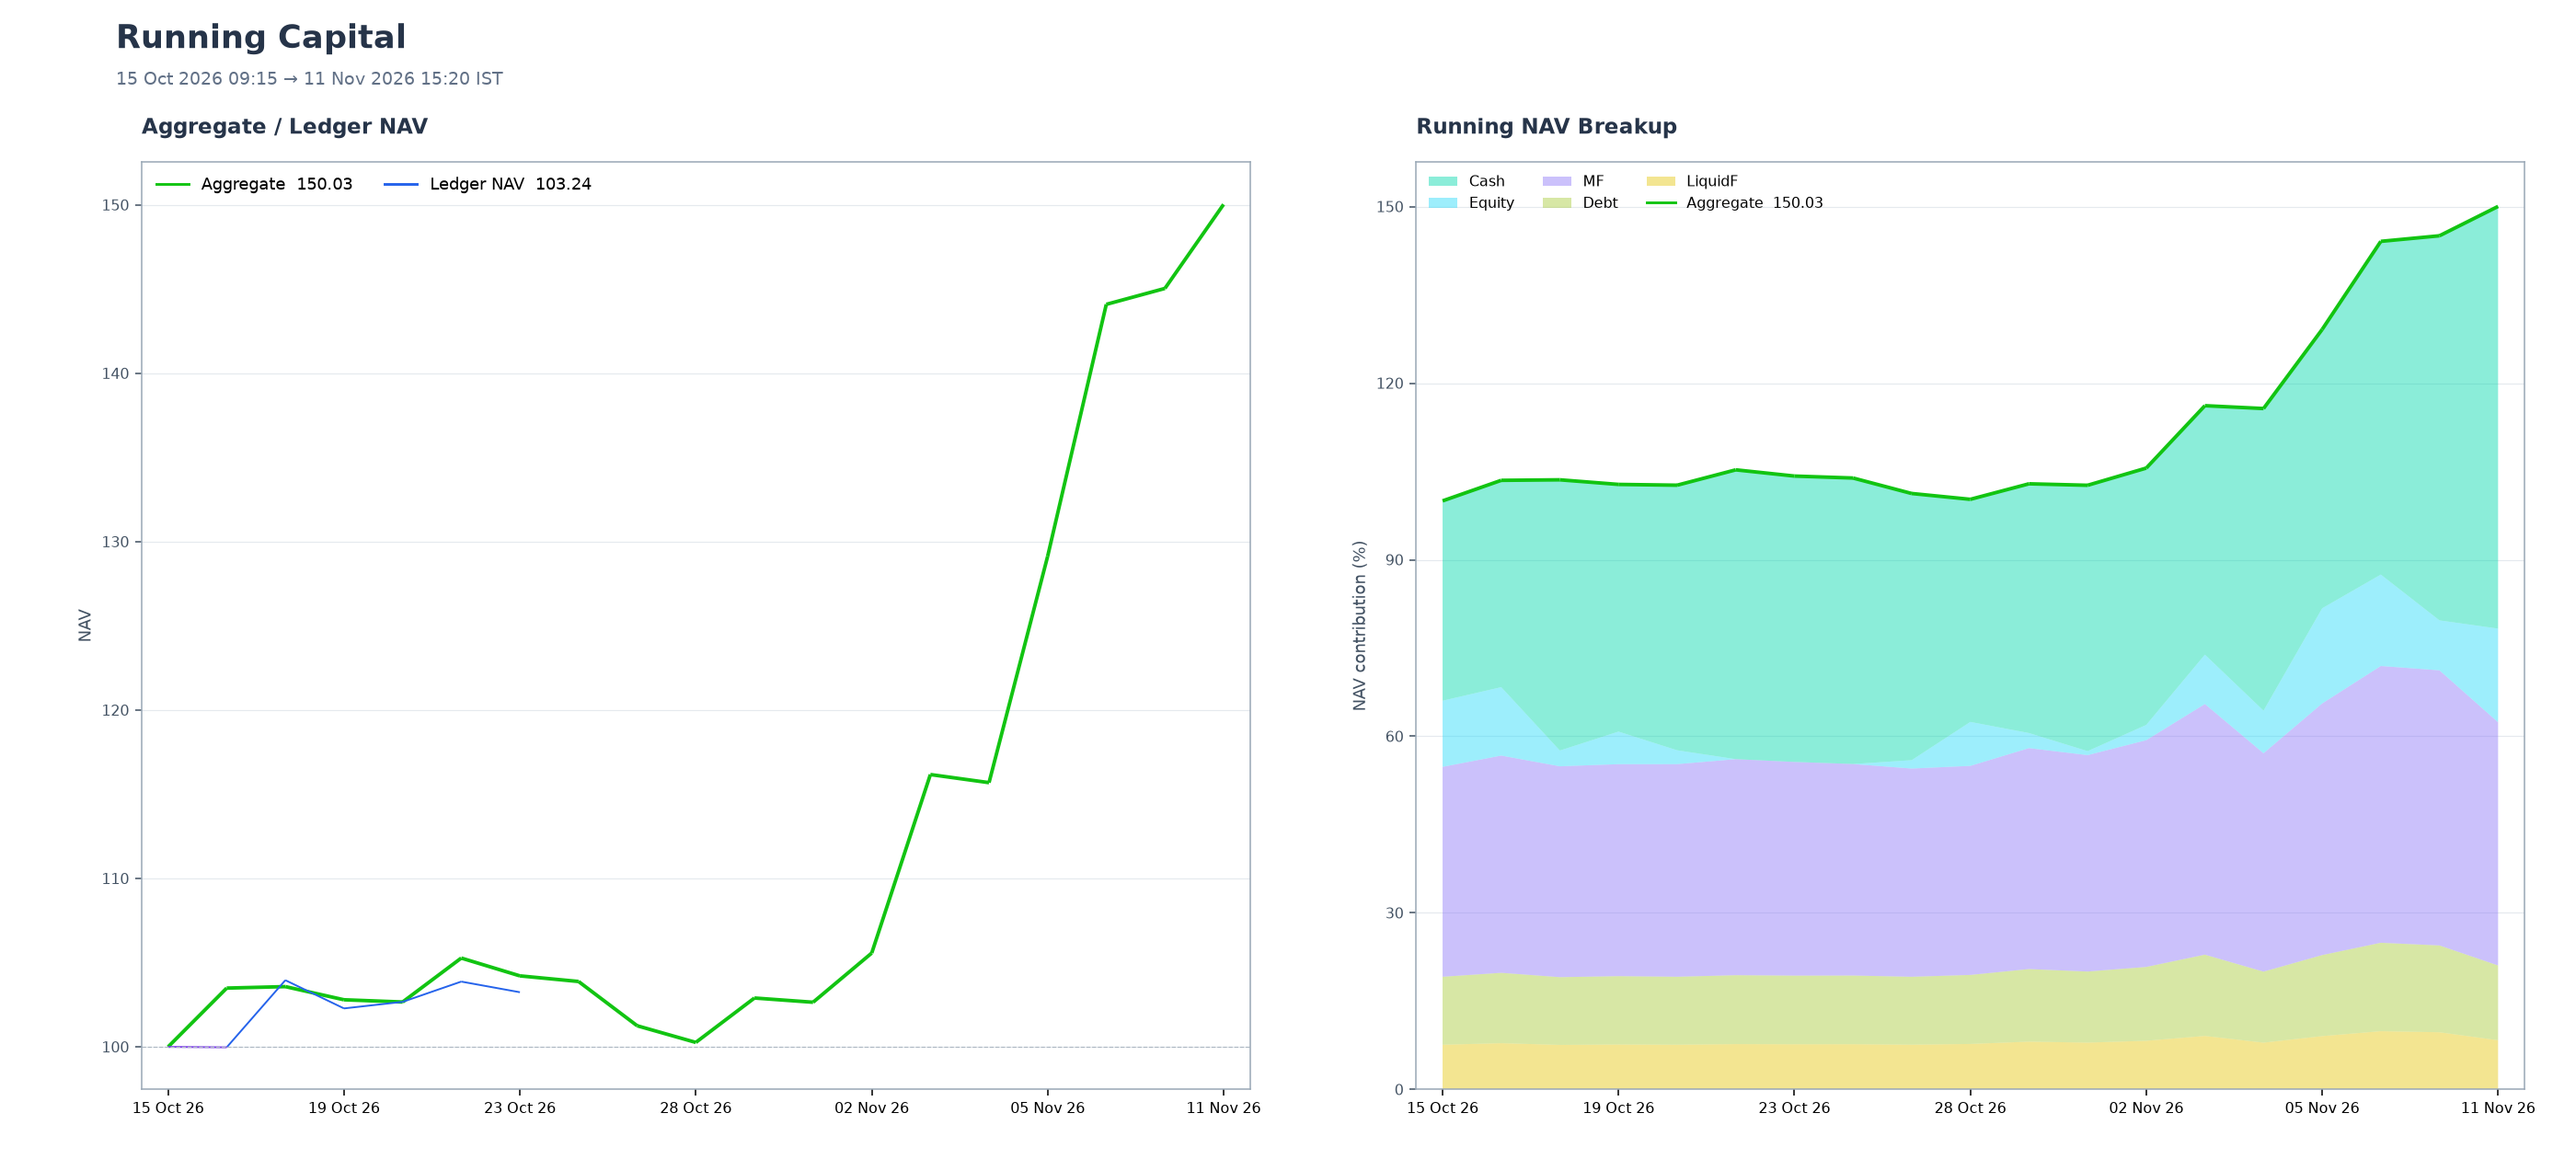
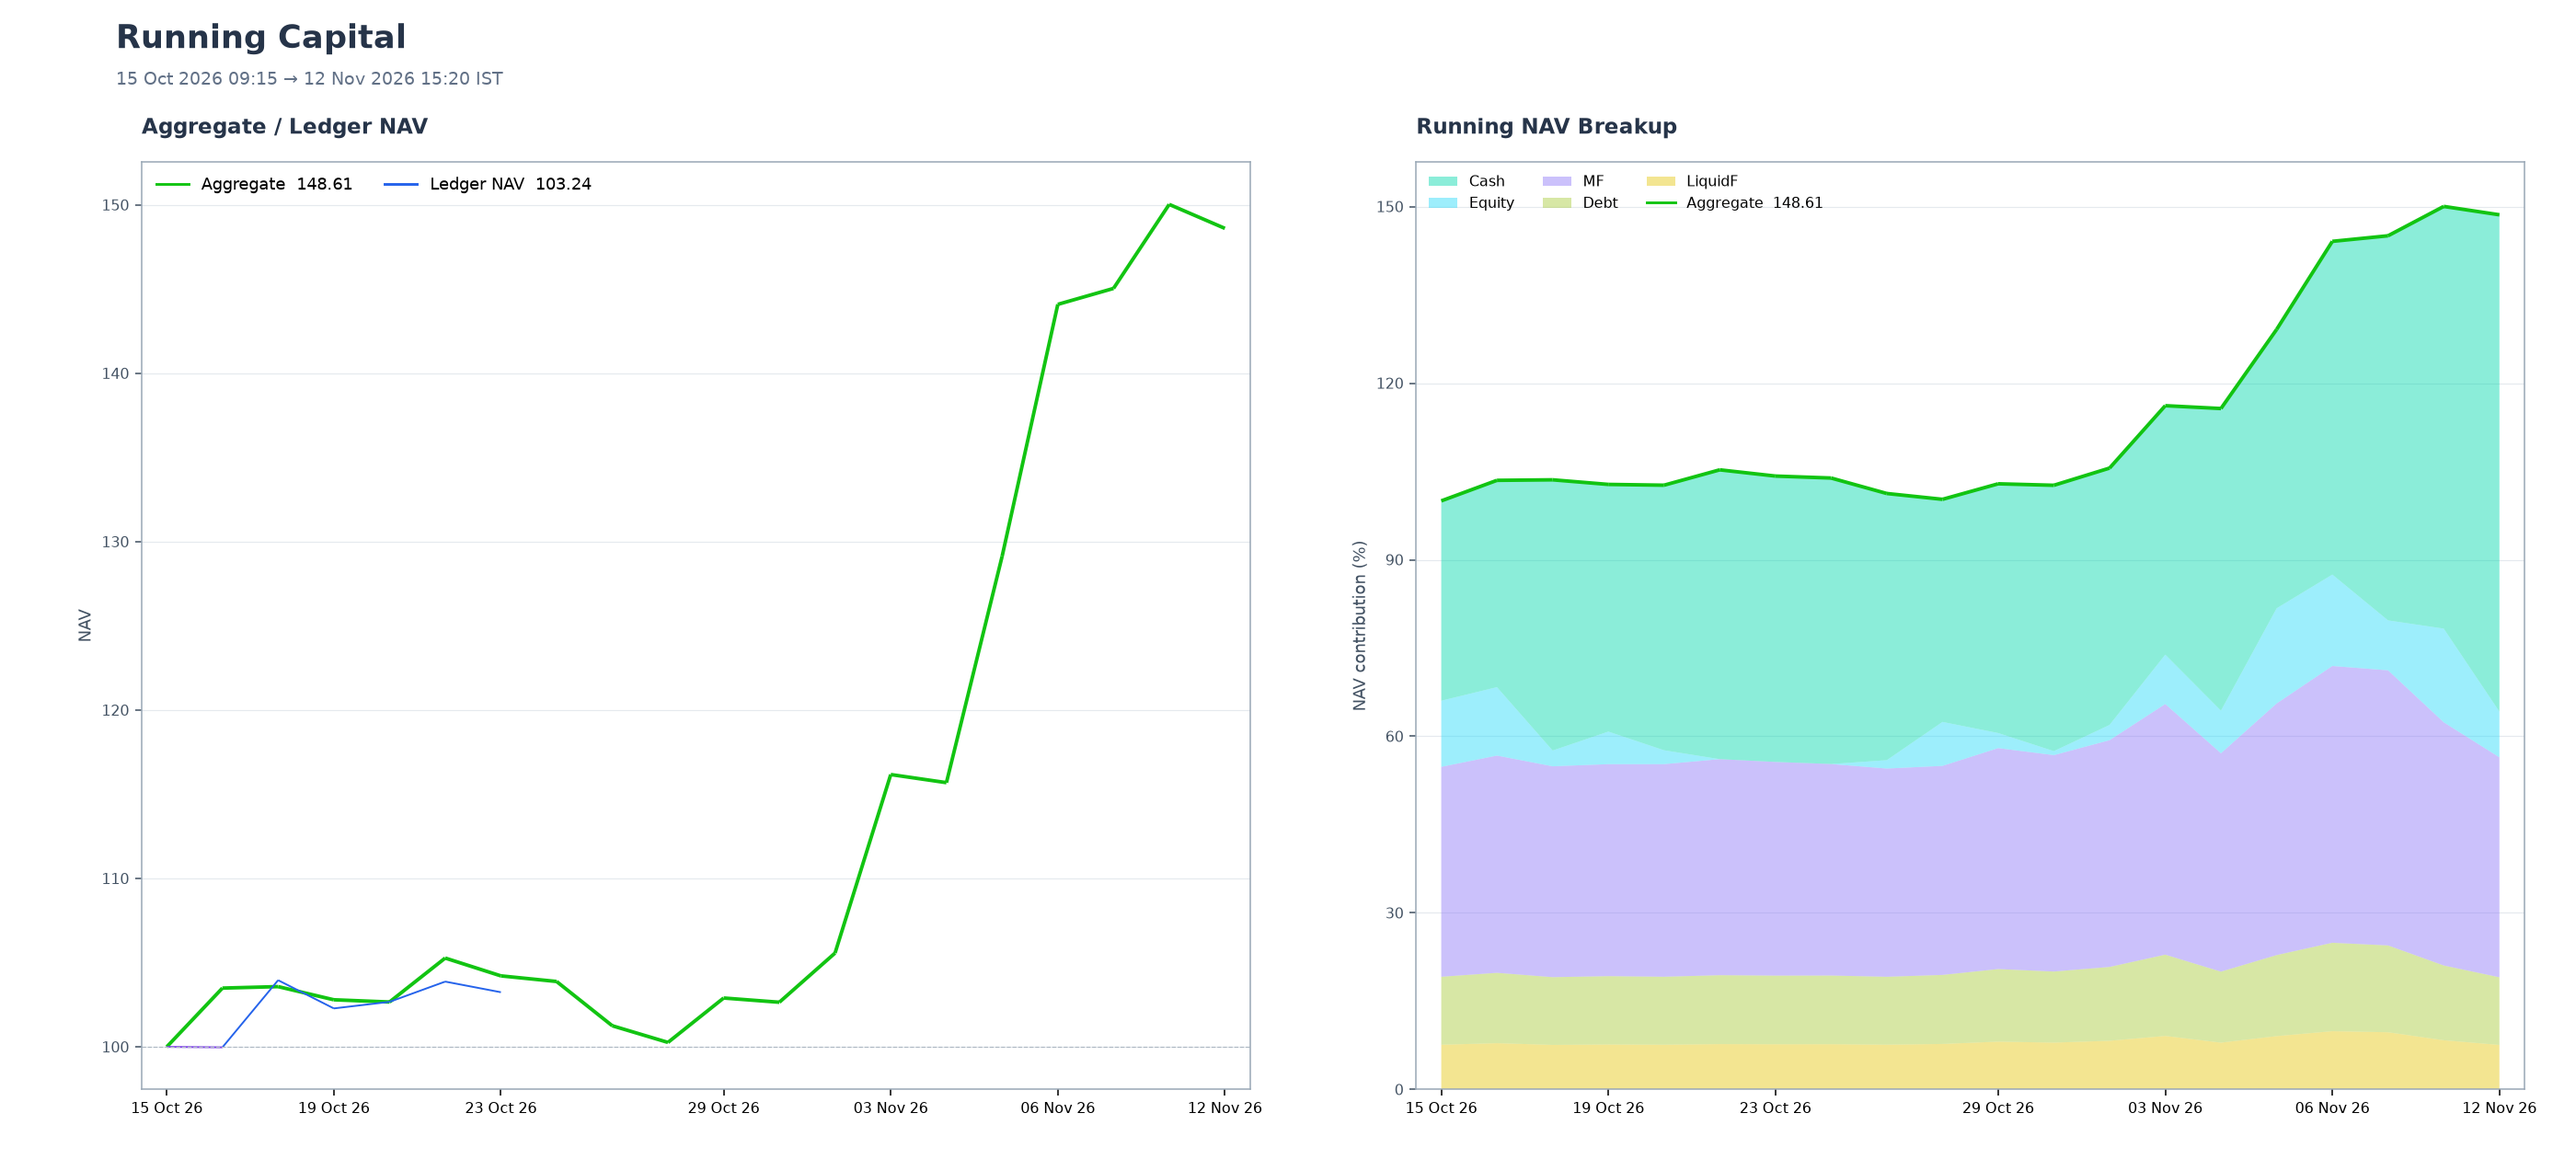
Nabz report 2026-11-12

diff --git a/content/daily/20261112.md b/content/daily/20261112.md
@@ -1,0 +1,9 @@
+---
+title: "20261112"
+date: 2026-11-12T15:20:00+05:30
+slug: "20261112"
+folder: "20261112"
+iso_date: "2026-11-12"
+preview: false
+strategy_today: "1520-start0830-summary-pnlmeta-strategy-today-REL.png"
+---

diff --git a/content/i/b20e7cbb5e9d8696884e.md b/content/i/b20e7cbb5e9d8696884e.md
@@ -1,0 +1,4 @@
+---
+title: "Today's P&L"
+image: "i/b20e7cbb5e9d8696884e.png"
+---
